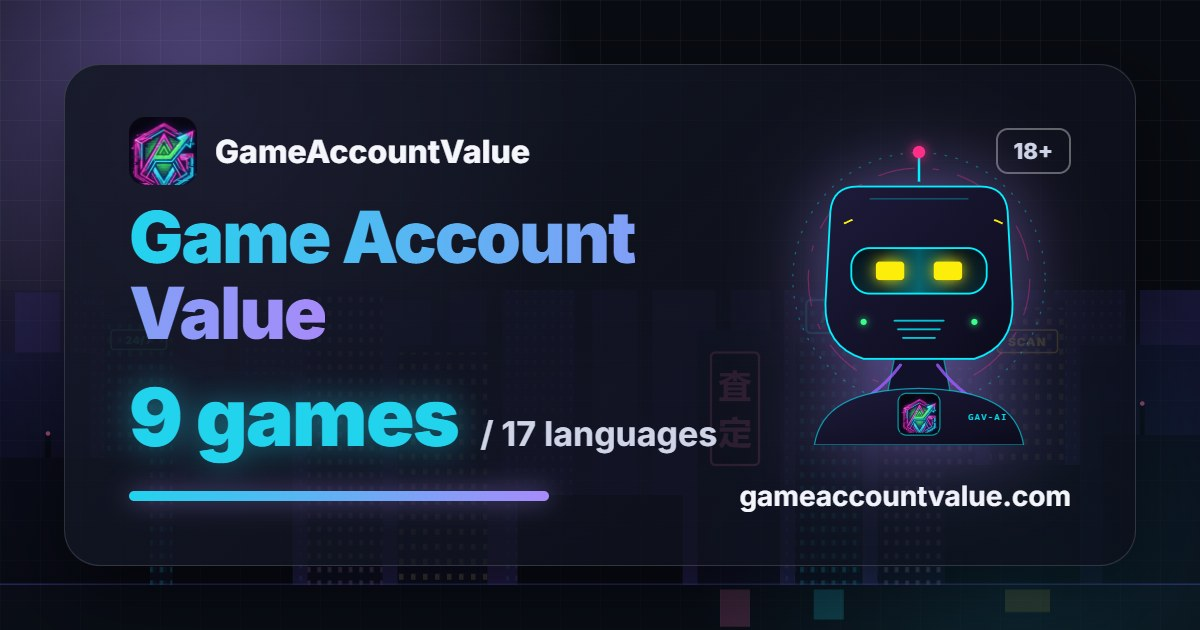
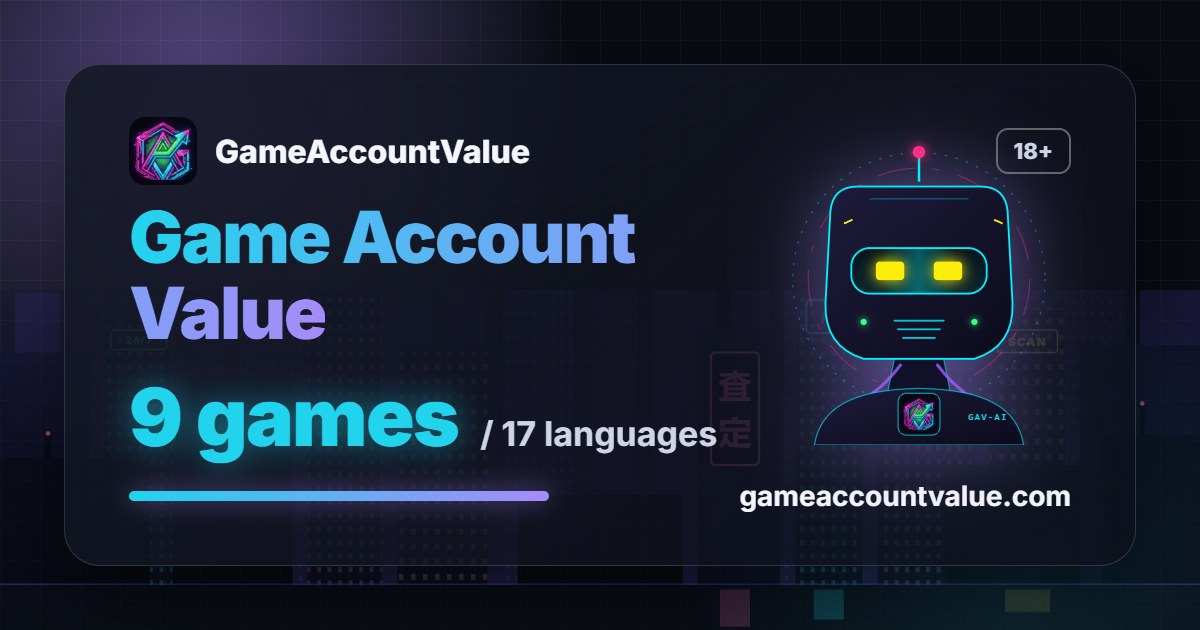
Centre the GAV emblem crop

Changed region(s): [[0.0925, 0.181, 0.185, 0.3016], [0.74, 0.6333, 0.8017, 0.6937]]

diff --git a/sw.js b/sw.js
@@ -1,5 +1,5 @@
 /* GameAccountValue Service Worker — offline + PWA install */
-const CACHE = 'gav-landing-2026-26';
+const CACHE = 'gav-landing-2026-27';
 const PRECACHE = [
   './', './index.html', './404.html', './manifest.json',
   './favicon.png', './favicon.ico', './favicon-192.png', './apple-touch-icon.png',
